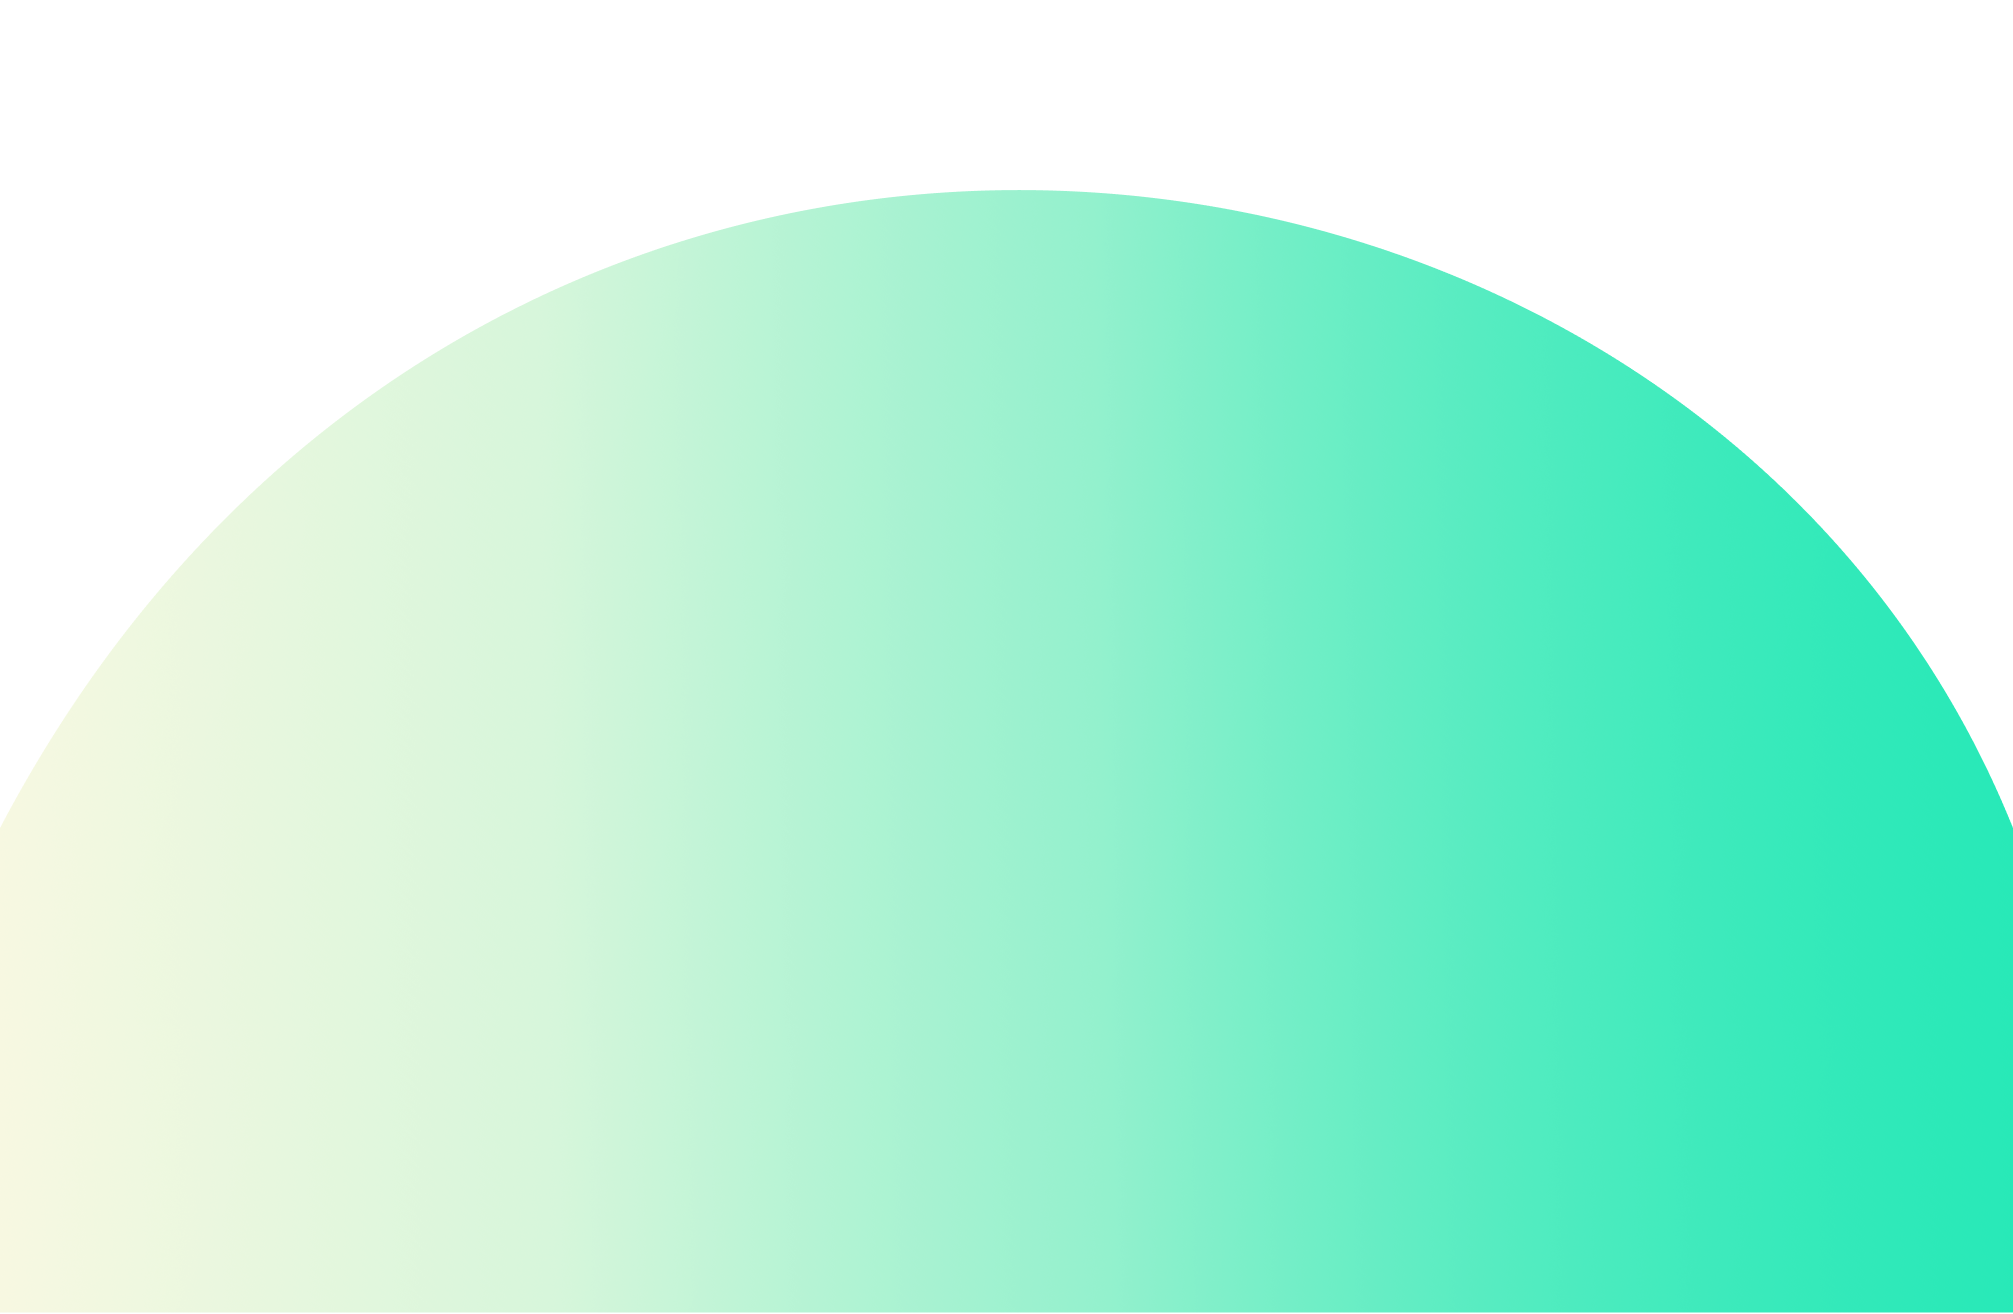
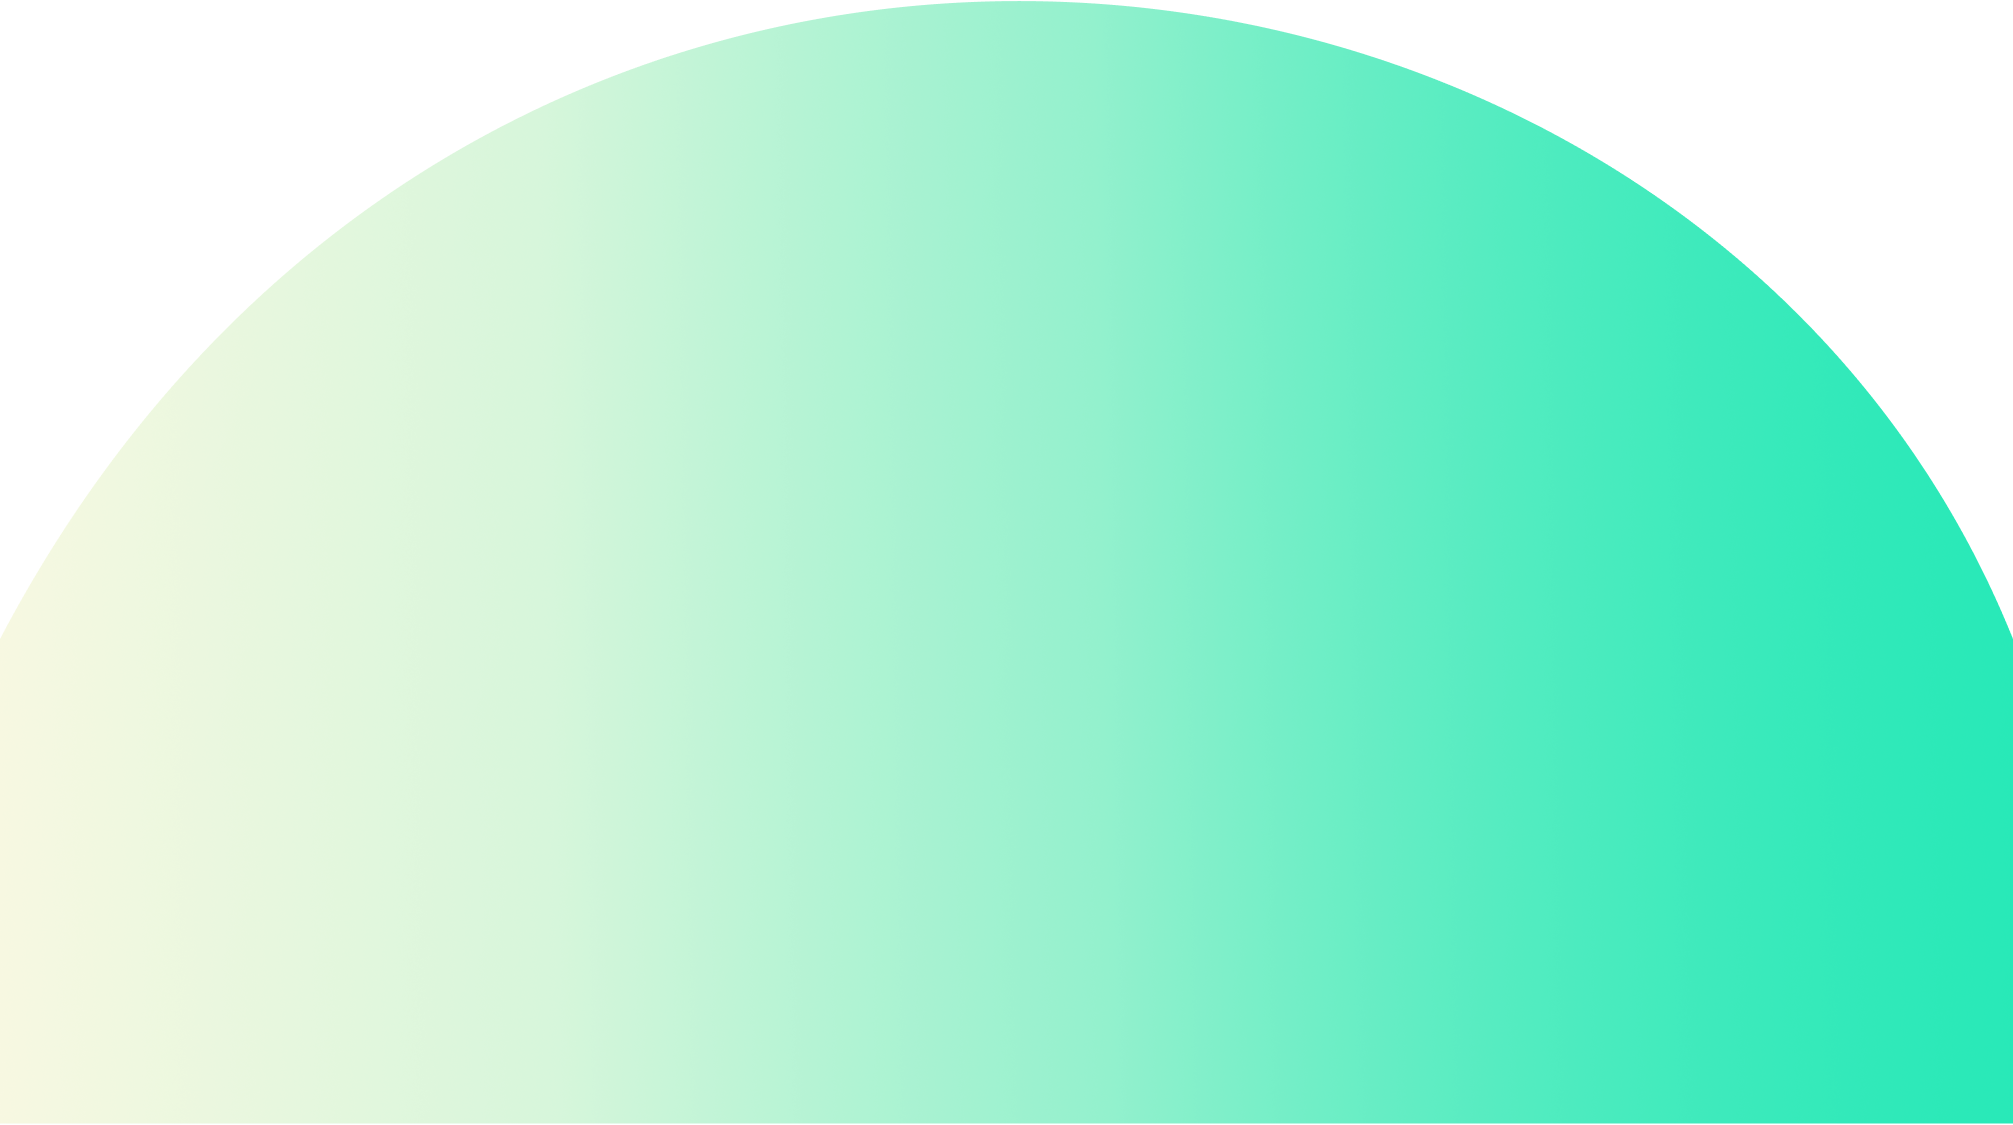
Changed colors of landing page

Changed region(s): [[0.0, 0.0, 1.0, 0.6222], [0.6776, 0.9956, 1.0, 1.0]]

diff --git a/app/assets/stylesheets/components/_navbar.scss b/app/assets/stylesheets/components/_navbar.scss
@@ -1,7 +1,7 @@
 /* Main navbar */
 .navbar {
-  box-shadow: 0 1px 5px 0 rgba(0,0,0,0.07),0 1px 0 0 rgba(0,0,0,0.03);
-  background: white;
+  background: $black;
+  // border-bottom: solid 1px #2a415e;
   height: 70px;
   width: 100%;
   margin: 0px;
@@ -52,20 +52,19 @@
 
 /* Navbar link */
 .navbar-link {
-  color: $black;
+  color: white;
   font-size: 14px;
   font-weight: bold;
   line-height: 26px;
   padding: 20px 0px;
   margin: 0px 20px;
-  border-bottom: solid 3px white;
   transition: all 0.3s ease;
   &:hover {
     color: $green;
     text-decoration: none;
   }
   &:focus {
-    color: $light-black;
+    color: white;
     text-decoration: none;
   }
 }
@@ -77,7 +76,7 @@
 .navbar-logo a {
   font-size: 30px;
   font-weight: 800;
-  color: $black;
+  color: white;
   transition: all 0.3s ease;
   cursor: pointer;
   &:hover {
@@ -87,7 +86,7 @@
 .navbar-small-logo a {
   font-size: 22px;
   font-weight: 800;
-  color: $black;
+  color: white;
   transition: all 0.3s ease;
   cursor: pointer;
   &:hover {

diff --git a/app/assets/stylesheets/pages/_home.scss b/app/assets/stylesheets/pages/_home.scss
@@ -57,7 +57,7 @@
 // Specific stylesheet applied to landing section
 .landing-real-estate {
   min-height: 450px;
-  background-color: #FBFBFB;
+  background-color: white;
   .landing-section-content, .landing-section-media {
     height: 450px;
   }
@@ -81,7 +81,8 @@
 
 .landing-studio {
   min-height: 450px;
-  background-color: white;
+  background-color: $black;
+  color: white;
   .landing-section-content, .landing-section-media {
     height: 450px;
   }
@@ -104,7 +105,7 @@
 
 .landing-products {
   min-height: 450px;
-  background-color: #FBFBFB;
+  background-color: white;
   .landing-section-content, .landing-section-media {
     height: 450px;
   }
@@ -130,7 +131,8 @@
 
 .landing-team {
   min-height: 450px;
-  background-color: white;
+  background-color: $black;
+  color: white;
   .landing-section-content, .landing-section-media {
     height: 450px;
   }

diff --git a/app/assets/stylesheets/config/_bootstrap_variables.scss b/app/assets/stylesheets/config/_bootstrap_variables.scss
@@ -6,7 +6,7 @@
 // General style
 $font-family-sans-serif:  $body-font;
 $headings-font-family:    $headers-font;
-$body-bg:                 $light-blue;
+$body-bg:                 $black;
 $font-size-base: 18px;
 $text-color: $black;
 

diff --git a/app/assets/stylesheets/components/_footer.scss b/app/assets/stylesheets/components/_footer.scss
@@ -2,7 +2,7 @@
 footer {
   width: 100%;
   height: 90px;
-  background-color: $black;
+  background-color: #0d223d;
   color: white;
   padding: 20px 20px;
   position: relative;

diff --git a/db/seeds.rb b/db/seeds.rb
@@ -2,7 +2,7 @@ p "Destroying users..."
 User.destroy_all
 
 p "Creating users..."
-user_admin = User.create!(email: "admin@gmail.com", password: "123456", city: "Marseille", zip_code: "13000")
+user_admin = User.create!(email: "admin@gmail.com", password: "123456", city: "Marseille", zip_code: "13002")
 user_test_1 = User.create!(email: "test1@gmail.com", password: "123456", city: "Marseille", zip_code: "13002")
 user_test_2 = User.create!(email: "test2@gmail.com", password: "123456", city: "Toulouse", zip_code: "31001")
 
